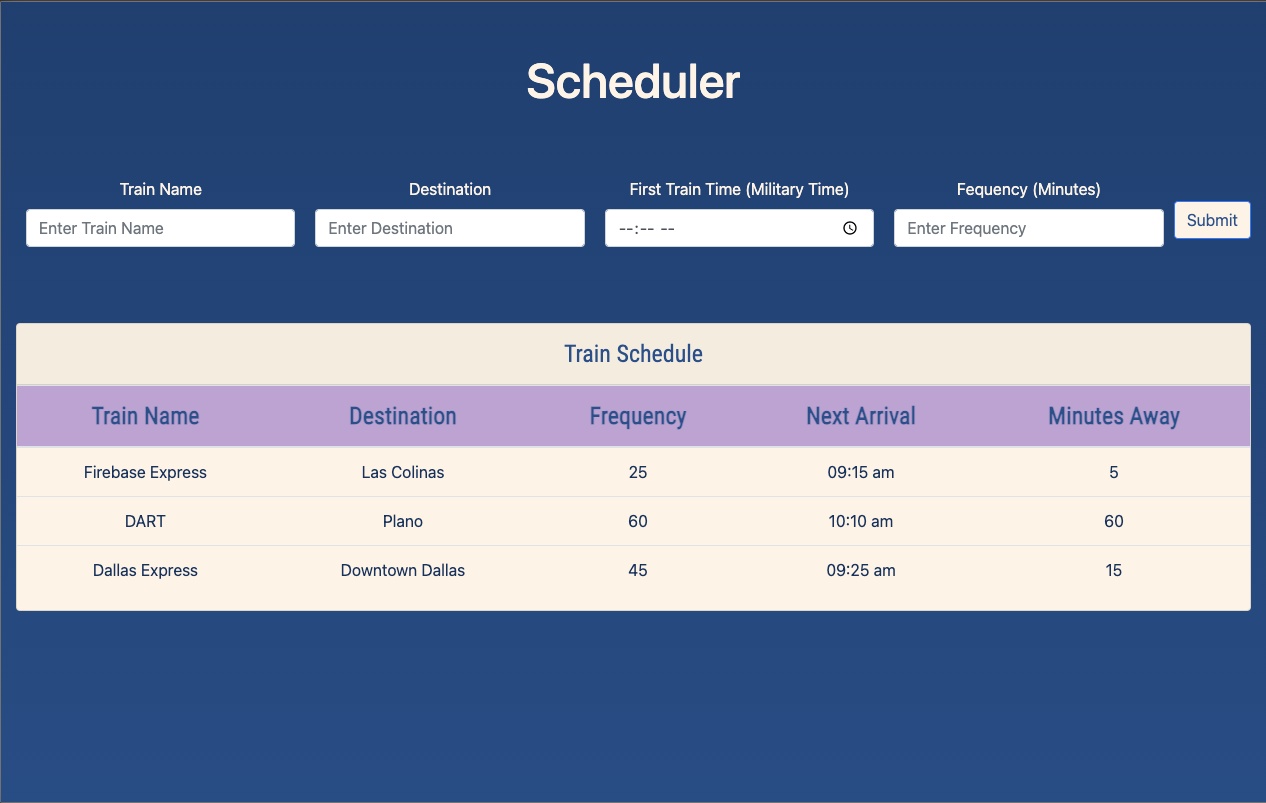
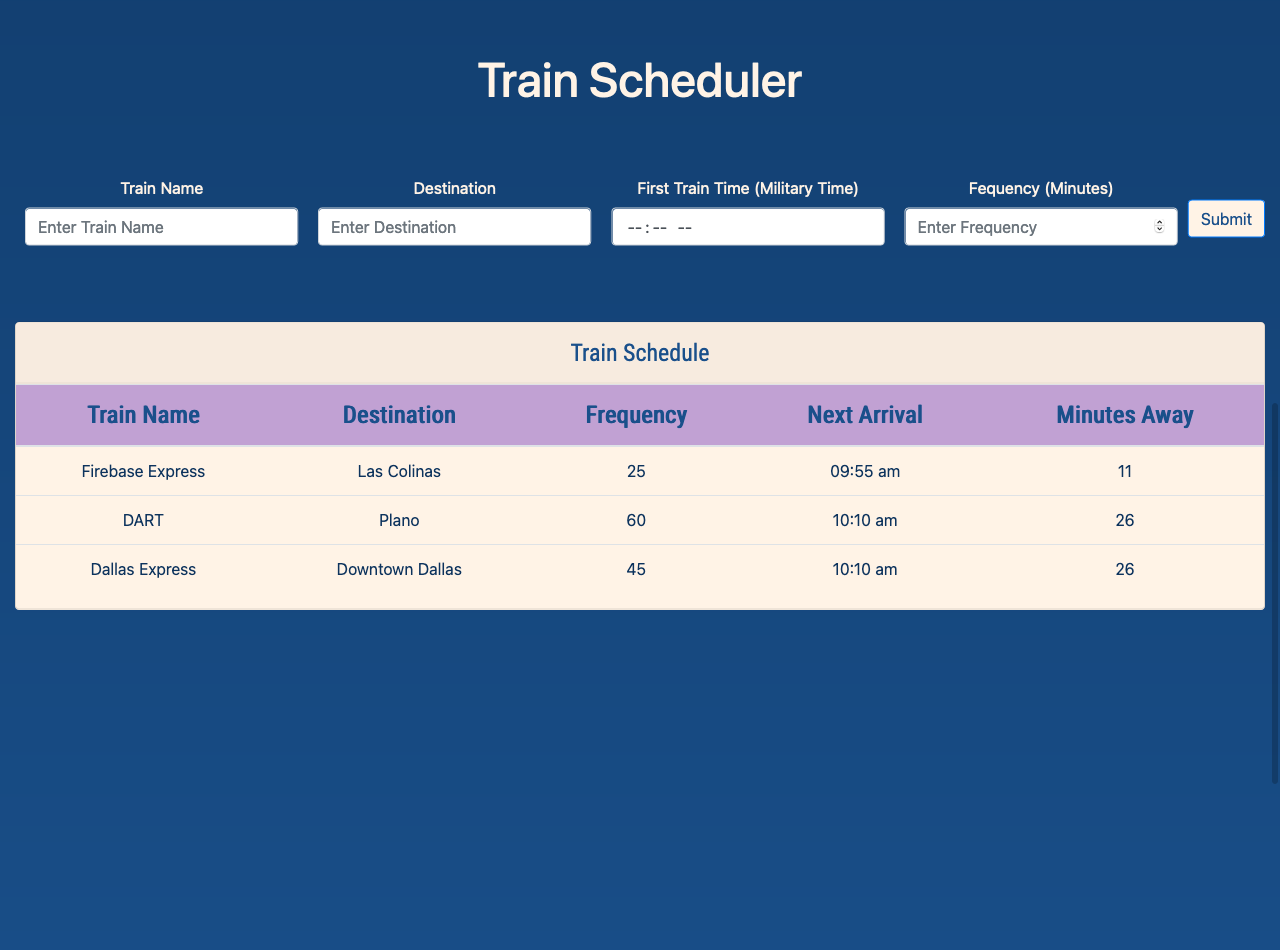
updated landing page

diff --git a/public/index.html b/public/index.html
@@ -13,7 +13,7 @@
     
     <!-- Google Fonts -->
     <link rel="preconnect" href="https://fonts.gstatic.com">
-<link href="https://fonts.googleapis.com/css2?family=Roboto+Condensed&family=Yanone+Kaffeesatz:wght@200&display=swap" rel="stylesheet">
+<link href="https://fonts.googleapis.com/css2?family=Roboto+Condensed&family=Roboto:wght@700&display=swap"" rel="stylesheet">
     
 
 </head>
@@ -27,8 +27,7 @@
         <div class="col-sm-12">
             <div class="jumbotron">
                 <h1 class="display-3">Train Scheduler</h1>
-                <!-- <p class="lead">Create your train schedule</p> -->
-                <hr class="my-5">
+                <br>
                 <p>Create Your Train Schedule</p>
                 <p class="lead">
                     <a class="btn btn-landing btn-lg"  id="landingButton" href="#inputSection" role="button">Create Schedule</a>
@@ -46,7 +45,7 @@
 <!-- User input -->
 
 <div class="container-fluid">
-    <h2>Scheduler</h2>
+    <h2>Train Scheduler</h2>
 </div>
 
 <div class="container-fluid" >
@@ -54,23 +53,23 @@
         <div class="col-sm-12 col-md-12 col-lg-12">
             <div class="card" id="inputCard">
                 <form>
-                        <div class="form-group">
-                            <label for="trainName">Train Name</label>
-                            <input type="text" class="form-control" id="trainName"  placeholder="Enter Train Name">
-                        </div>
-                        <div class="form-group">
-                            <label for="destinationName">Destination</label>
-                            <input type="text" class="form-control" id="destinationName" placeholder="Enter Destination">
-                        </div>
-                        <div class="form-group">
-                            <label for="firstTrain">First Train Time (Military Time)</label>
-                            <input type="time" class="form-control" id="firstTrain" placeholder="Enter Train Time">
-                        </div>
-                        <div class="form-group">
-                            <label for="frequency">Fequency (Minutes)</label>
-                            <input type="number" class="form-control" id="frequency" placeholder="Enter Frequency">
-                        </div>
-                        <button type="submit" class="btn btn-primary" id="submit">Submit</button>
+                    <div class="form-group">
+                        <label for="trainName">Train Name</label>
+                        <input type="text" class="form-control" id="trainName"  placeholder="Enter Train Name">
+                    </div>
+                    <div class="form-group">
+                        <label for="destinationName">Destination</label>
+                        <input type="text" class="form-control" id="destinationName" placeholder="Enter Destination">
+                    </div>
+                    <div class="form-group">
+                        <label for="firstTrain">First Train Time (Military Time)</label>
+                        <input type="time" class="form-control" id="firstTrain" placeholder="Enter Train Time">
+                    </div>
+                    <div class="form-group">
+                        <label for="frequency">Fequency (Minutes)</label>
+                        <input type="number" class="form-control" id="frequency" placeholder="Enter Frequency">
+                    </div>
+                    <button type="submit" class="btn btn-primary" id="submit">Submit</button>    
                 </form>
             </div>
         </div>

diff --git a/public/style.css b/public/style.css
@@ -41,16 +41,14 @@ main {
 .jumbotron h1{
     font-family: 'Roboto Condensed', sans-serif;
     font-weight: bolder;
-    text-shadow: 0px 5px 5px #0d335d;
 
 }
 
 .jumbotron p{
-    font-family: 'Yanone Kaffeesatz', sans-serif;
+    font-family: 'Roboto',sans-serif;
     font-weight: bolder;
     font-size: 3rem;
-    text-shadow: 0px 0px 2px #0d335d;
-    text-align: center;
+    text-align: left;
 }
 
 .lead{

diff --git a/public/app.js b/public/app.js
@@ -71,7 +71,8 @@ database.ref().on("child_added", function(childSnapshot, prevChildKey){
     $("<td>").text(destinationName),
     $("<td>").text(frequency),
     $("<td>").text(firstTrain),
-    $("<td>").text(minutesAway) 
+    $("<td>").text(minutesAway)
+
 
   );
 

diff --git a/README.md b/README.md
@@ -9,8 +9,6 @@
   </p>
 </p>
 
-
-
 <!-- TABLE OF CONTENTS -->
 <details open="open">
   <summary>Table of Contents</summary>
@@ -32,12 +30,12 @@
   </ol>
 </details>
 
-
-
 <!-- ABOUT THE PROJECT -->
+
 ## About The Project
+
 <br />
-<img src="public/images/train-landing.png" height="500" width="850">
+<img src="public/images/Train-Scheduler-ReadMe.png" height="500" width="850">
 <br />
 <br />
 <img src="public/images/scheduler-table.png" height="500" width="850">
@@ -45,26 +43,28 @@
 <br />
 <br />
 
-The purpose of this project was to utilize jQuery and MomentJS to track train schedules that the users would create.   
-
+The purpose of this project was to utilize jQuery and MomentJS to track train schedules that the users would create.
 
 Objective and Summary:
-* Give the user the ability to enter information for their train schedule.
-* Prepend the information the user creates to table.
-* The information is then stored on Firebases Cloud Storage. This allows the schedule to remain in place when then user comes back to the app.
-* Based on the "Frequency" the user enters, MomentJS would then track time and provide the user information on when the next train would arrive.
+
+- Give the user the ability to enter information for their train schedule.
+- Prepend the information the user creates to table.
+- The information is then stored on Firebases Cloud Storage. This allows the schedule to remain in place when then user comes back to the app.
+- Based on the "Frequency" the user enters, MomentJS would then track time and provide the user information on when the next train would arrive.
 
 ### Built With
 
 The following frameworks were used to complete the project.
-* [HTML5](https://developer.mozilla.org/en-US/docs/Web/Guide/HTML/HTML5)
-* [Bootstrap](https://getbootstrap.com)
-* [JQuery](https://jquery.com)
-* [MomentJS](https://momentjs.com/)
-* [Firebase Database](https://firebase.google.com/docs/database)
-* [Firebase Hosting](https://firebase.google.com/docs/hosting)
+
+- [HTML5](https://developer.mozilla.org/en-US/docs/Web/Guide/HTML/HTML5)
+- [Bootstrap](https://getbootstrap.com)
+- [JQuery](https://jquery.com)
+- [MomentJS](https://momentjs.com/)
+- [Firebase Database](https://firebase.google.com/docs/database)
+- [Firebase Hosting](https://firebase.google.com/docs/hosting)
 
 <!-- GETTING STARTED -->
+
 ## Getting Started
 
 A live demo of the project and be accessed at this [link](https://train-schedule-eb0d7.firebaseapp.com/) or the respository can be cloned to a local machine.
@@ -74,9 +74,11 @@ A live demo of the project and be accessed at this [link](https://train-schedule
 1. Clone the repository:
    ```sh
    git clone https://github.com/aamir-malik22188/Train-Schedule.git
-4. Start Application
+   ```
+2. Start Application
 
 <!-- CONTACT -->
+
 ## Contact
 
 Aamir Malik - Aamir22188@gmail.com
@@ -85,13 +87,13 @@ Twitter Handle - [@TheRealAamir](https://twitter.com/TheRealAamir)
 
 Project Repository: https://github.com/aamir-malik22188/Train-Schedule
 
-
-
 <!-- ACKNOWLEDGEMENTS -->
+
 ## Acknowledgements
-* [HTML5](https://developer.mozilla.org/en-US/docs/Web/Guide/HTML/HTML5)
-* [Bootstrap](https://getbootstrap.com)
-* [JQuery](https://jquery.com)
-* [MomentJS](https://momentjs.com/)
-* [Firebase](https://firebase.google.com/)
-* [SMU Bootcamp](https://techbootcamps.smu.edu/)
+
+- [HTML5](https://developer.mozilla.org/en-US/docs/Web/Guide/HTML/HTML5)
+- [Bootstrap](https://getbootstrap.com)
+- [JQuery](https://jquery.com)
+- [MomentJS](https://momentjs.com/)
+- [Firebase](https://firebase.google.com/)
+- [SMU Bootcamp](https://techbootcamps.smu.edu/)
